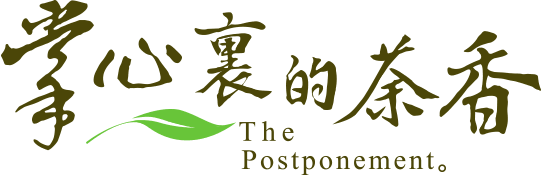
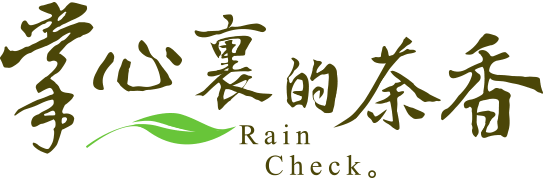
首頁高度調整+標準字更換 #20141212

diff --git a/css/xuedesign_201412.css b/css/xuedesign_201412.css
@@ -48,12 +48,12 @@ image{border:0}
 #box_index{
 	display:block;
 	position: absolute;
-	top: 50%;
+	top: 15px/*50%*/;
     left: 50%;
 	width:1240px;
 	height:758px;
 	background:url(../images/bg_box.png) repeat;
-	margin: -379px 0 0 -620px;
+	margin: /*-379px*/ 0 0 0 -620px;
 	-webkit-box-shadow: 0 0 20px #4E4E4E;
     -moz-box-shadow: 0 0 20px #4E4E4E;
     box-shadow: 0 0 20px #4E4E4E}
@@ -79,15 +79,15 @@ h1 a{
 	display:block;
 	position:relative;
 	width:1240px;
-	height:613px}
+	height:600px}
 #box_content h2{
 	display:block;
 	position:absolute;
 	top:35px;
 	left:32px;
 	z-index:99;
-	width:542px;
-	height:176px;
+	width:544px;
+	height:179px;
 	text-indent:-9999px;
 	background:url(../images/pic_h2.png) no-repeat}
 #box_content h3{
@@ -105,7 +105,7 @@ h1 a{
 	position:relative;
 	float:right;
 	width:915px;
-	height:613px;
+	height:600px;
 	background:url(../images/pic_index.jpg) no-repeat}
 #box_file a{
 	display:block;
@@ -124,7 +124,7 @@ h1 a{
 	display:block;
 	float:left;
 	width:325px;
-	height:613px}
+	height:600px}
 #box_menu ul{
 	display:block;
 	width:321px;

diff --git a/index.html b/index.html
@@ -5,6 +5,7 @@
 <meta name="description" content="苦中帶甘的茶湯味，就像爸爸對女兒的疼惜"/>
 <meta name="keywords" content="高雄餐旅大學,微電影,茶香,吳朋奉,李相林,卓越數位科技"/>
 <meta name="Author" content="National Kaohsiung University of Hospitality and Tourism" />
+<meta name="viewport" content="width=device-width, initial-scale=1">
 <title>掌心裏的茶香-高雄餐旅大學茶園微電影</title>
 <link rel="shortcut icon"  href="images/favicon.ico"/>
 <link rel="icon" href="images/favicon.ico"/>

diff --git a/story.html b/story.html
@@ -5,6 +5,7 @@
 <meta name="description" content="苦中帶甘的茶湯味，就像爸爸對女兒的疼惜"/>
 <meta name="keywords" content="高雄餐旅大學,微電影,茶香,吳朋奉,李相林,卓越數位科技"/>
 <meta name="Author" content="National Kaohsiung University of Hospitality and Tourism" />
+<meta name="viewport" content="width=device-width, initial-scale=1">
 <!-- InstanceBeginEditable name="doctitle" -->
 <title>茶劇情│掌心裏的茶香-高雄餐旅大學茶園微電影</title>
 <!-- InstanceEndEditable -->
